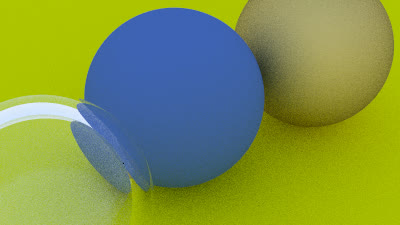
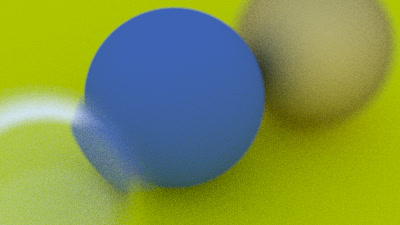
焦散模糊（景深）

diff --git a/MyRayTracer/src/Camera.h b/MyRayTracer/src/Camera.h
@@ -18,6 +18,9 @@ public:
 	vec3 lookAt = vec3(0.0f, 0.0f, -1.0f);	// Point camera is looking at
 	vec3 vUp = vec3(0.0f, 1.0f, 0.0f);		// Camera-relative "up" direction
 
+	float defocusAngle = 0.0f; // Variation angle of rays through each pixel
+	float focusDist = 10.0f;   // Distance from camera lookFrom point to plane of perfect focus
+
 	void render(const Hittable& world) {
 		Initialize();
 
@@ -53,7 +56,7 @@ private:
 		float focal_length = (lookAt - lookFrom).norm();
 		float theta = Radians(vfov);
 		float h = std::tanf(theta / 2.0f);
-		float viewport_height = 2.0f * h * focal_length;
+		float viewport_height = 2.0f * h * focusDist;
 		float viewport_width = viewport_height * aspect_ratio;
 
 		// Calculate the u,v,w unit basis vectors for the camera coordinate frame.
@@ -70,20 +73,25 @@ private:
 		pixel_delta_v = viewport_v / (float)Height;
 
 		// Calculate the location of the upper left pixel.
-		vec3 viewport_upper_left = lookFrom - (focal_length * w) - viewport_u / 2.0f - viewport_v / 2.0f;
+		vec3 viewport_upper_left = lookFrom - (focusDist * w) - viewport_u / 2.0f - viewport_v / 2.0f;
 		pixel00_loc = viewport_upper_left + 0.5f * (pixel_delta_u + pixel_delta_v);
+
+		// Calculate the camera defocus disk basis vectors.
+		vec3 defocus_radius = focusDist * std::tanf(Radians(defocusAngle / 2));
+		defocus_disk_u = u * defocus_radius;
+		defocus_disk_v = v * defocus_radius;
 	}
 
 	Ray getRay(int i, int j) const {
-		// Construct a camera ray originating from the origin and directed at randomly sampled
-		// point around the pixel location i, j.
+		// Construct a camera ray originating from the defocus disk and directed at randomly
+		// sampled point around the pixel location i, j.
 
 		vec3 offset = sampleSquare();
 		vec3 pixelSample = pixel00_loc +
 			((i + offset.x) * pixel_delta_u) +
 			((j + offset.y) * pixel_delta_v);
 
-		vec3 rayOrig = center;
+		vec3 rayOrig = (defocusAngle <= 0.0f) ? center : defocusDiskSample();
 		vec3 rayDir = pixelSample - rayOrig;
 
 		return Ray(rayOrig, rayDir);
@@ -92,6 +100,12 @@ private:
 	vec3 sampleSquare() const {
 		// Returns the vector to a random point in the [-.5,-.5]-[+.5,+.5] unit square.
 		return vec3(randomFloat() - 0.5f, randomFloat() - 0.5f, 0.0f);
+	}
+
+	vec3 defocusDiskSample() const {
+		// Returns a random point in the camera defocus disk.
+		vec3 p = randomInUnitDisk();
+		return center + (p[0] * defocus_disk_u) + (p[1] * defocus_disk_v);
 	}
 
 	color castRay(const Ray& ray, const Hittable& world, int depth) const {
@@ -120,5 +134,7 @@ private:
 	vec3 pixel_delta_u;
 	vec3 pixel_delta_v;
 	vec3 u, v, w; // Camera frame basis vectors
+	vec3 defocus_disk_u; // Defocus disk horizontal radius
+	vec3 defocus_disk_v; // Defocus disk vertical radius
 
 };

diff --git a/MyRayTracer/src/Vector.h b/MyRayTracer/src/Vector.h
@@ -73,6 +73,14 @@ inline vec3 randomUnit() {
 	}
 }
 
+inline vec3 randomInUnitDisk() {
+	while (true) {
+		vec3 p = vec3(randomFloat(-1.0f, 1.0f), randomFloat(-1.0f, 1.0f), 0.0f);
+		if (p.norm() < 1)
+			return p;
+	}
+}
+
 inline vec3 randomOnHemisphere(const vec3& normal) {
 	vec3 onUnitSphere = randomUnit();
 	if (dot(onUnitSphere, normal) > 0.0f) // In the same hemisphere as the normal

diff --git a/MyRayTracer/src/main.cpp b/MyRayTracer/src/main.cpp
@@ -34,6 +34,9 @@ int main()
 	camera.lookAt = vec3(0.0f, 0.0f, -1.0f);
 	camera.vUp = vec3(0.0f, 1.0f, 0.0f);
 
+	camera.defocusAngle = 10.0f;
+	camera.focusDist = 3.4f;
+
 	camera.render(world);
 	return 0;
 }
